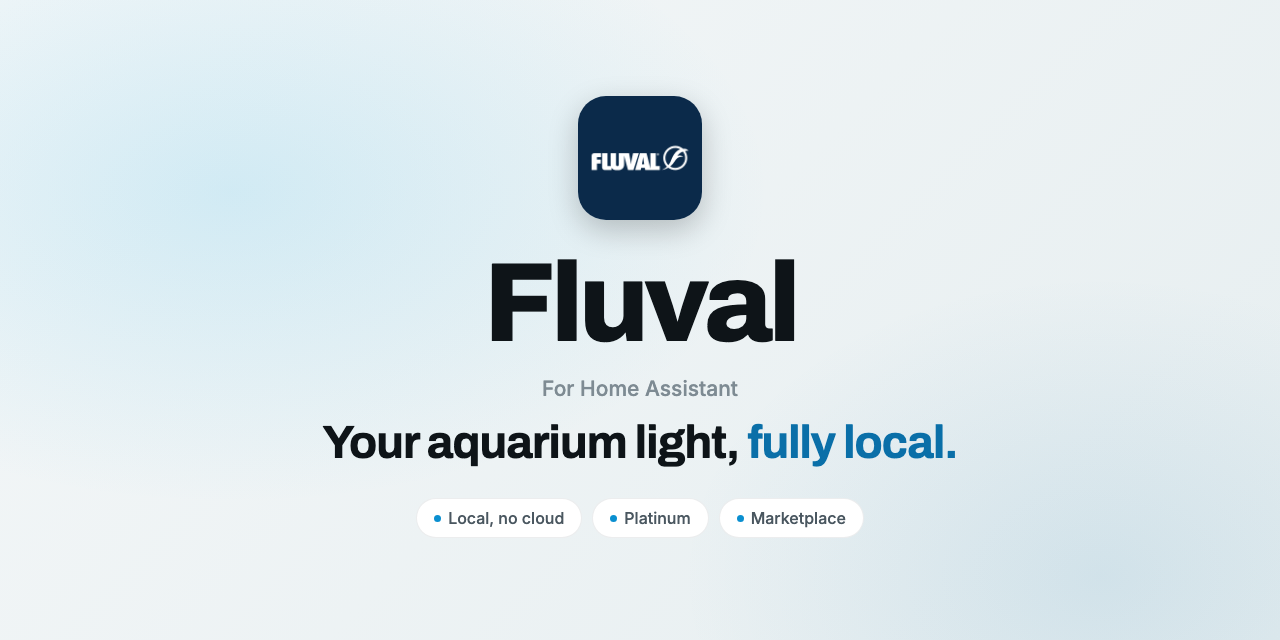
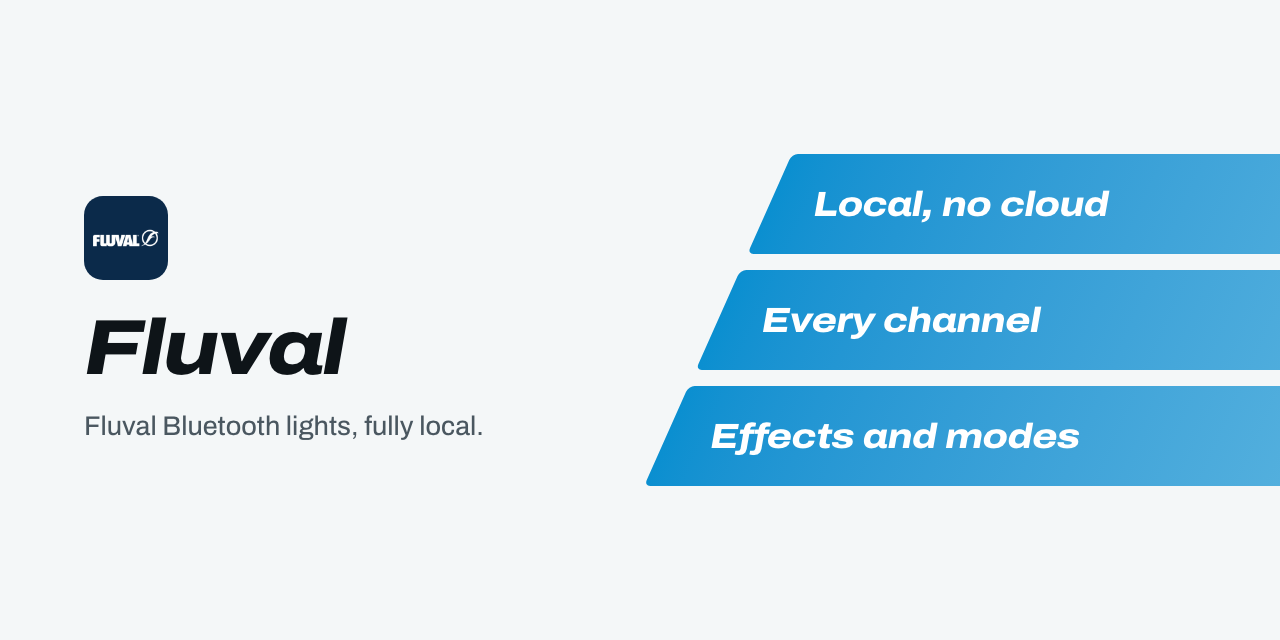
README and project page in the v2 design
Title banner with the lanes, Install and Set up as one Get started, shared
footer. The page loads theme v2 (Archivo from sh1ft-w.github.io), hero left
with the three key facts on the lanes.

Claude-Session: https://claude.ai/code/session_01TLmTtZLAvnS1BJ3w9tzxXq

diff --git a/docs/index.html b/docs/index.html
@@ -13,21 +13,18 @@
 <meta property="og:description" content="Local Bluetooth control for Fluval Reef and Plant 4.0 LED lights. Robust, honest states, no cloud.">
 <meta property="og:image" content="https://sh1ft-w.github.io/fluval/images/readme-title-social.png">
 <link rel="icon" href="logo.png">
-<link rel="preconnect" href="https://fonts.googleapis.com">
-<link rel="preconnect" href="https://fonts.gstatic.com" crossorigin>
-<link href="https://fonts.googleapis.com/css2?family=Archivo:wght@600;700;800;900&family=Inter:wght@400;500;600&family=JetBrains+Mono:wght@400;500&display=swap" rel="stylesheet">
-<!-- Shared SH1FT-W design (tokens, glass navigation, light/dark, DE/EN, reveal) -->
-<link rel="stylesheet" href="https://sh1ft-w.github.io/theme/v1/theme.css">
-<script src="https://sh1ft-w.github.io/theme/v1/theme.js"></script>
+<!-- Shared SH1FT-W design, version 2 (tokens, Archivo, navigation, light/dark, DE/EN, the lanes) -->
+<link rel="stylesheet" href="https://sh1ft-w.github.io/theme/v2/theme.css">
+<script src="https://sh1ft-w.github.io/theme/v2/theme.js"></script>
 <style>
 /* Fluval palette: Fluval blue as accent, light sky blue as second colour, clear water by day, deep reef by night */
 :root {
   --accent: #0A8FD0; --accent-ink: #0A6FA8; --on-accent: #ffffff;
-  --sea: #0A6FA8; --sea-tint: rgba(10,143,208,0.10); --sea-glow: rgba(10,111,168,0.30); --aqua: #2BB3E8;
+  --sea: #0A6FA8; --sea-tint: rgba(10,143,208,0.10); --aqua: #2BB3E8;
   --ch-1: #E25FA8; --ch-2: #22C3D6; --ch-3: #2F6FE0; --ch-4: #8A4FE0; --ch-5: #9AAAB4;
-  --font: "Inter", -apple-system, BlinkMacSystemFont, system-ui, sans-serif;
-  --display: "Archivo", "Inter", -apple-system, BlinkMacSystemFont, system-ui, sans-serif;
-  --mono: "JetBrains Mono", ui-monospace, "SF Mono", Menlo, monospace;
+  --font: "Archivo", -apple-system, BlinkMacSystemFont, system-ui, sans-serif;
+  --display: "Archivo", -apple-system, BlinkMacSystemFont, system-ui, sans-serif;
+  --mono: ui-monospace, "SF Mono", Menlo, monospace;
   --bg: #F4F7F8; --bg-2: #E6EEF0; --card: #FFFFFF; --card-2: #F1F5F6;
   --ink: #0E1418; --ink-2: #4A5760; --ink-3: rgba(12,25,34,0.52);
   --line: rgba(10,40,60,0.11); --chip: rgba(10,50,80,0.06);
@@ -38,7 +35,7 @@
 }
 @media (prefers-color-scheme: dark) { :root:not([data-theme="light"]) {
   --accent: #3FB3EC; --accent-ink: #6CC6F2; --on-accent: #041624;
-  --sea: #3FB3EC; --sea-tint: rgba(63,179,236,0.14); --sea-glow: rgba(63,179,236,0.28);
+  --sea: #3FB3EC; --sea-tint: rgba(63,179,236,0.14);
   --ch-5: #DCE6EC;
   --bg: #070C10; --bg-2: #0C151B; --card: #10191F; --card-2: #16232B;
   --ink: #ECF3F6; --ink-2: rgba(214,228,238,0.84); --ink-3: rgba(214,228,238,0.52);
@@ -48,7 +45,7 @@
 } }
 :root[data-theme="dark"] {
   --accent: #3FB3EC; --accent-ink: #6CC6F2; --on-accent: #041624;
-  --sea: #3FB3EC; --sea-tint: rgba(63,179,236,0.14); --sea-glow: rgba(63,179,236,0.28);
+  --sea: #3FB3EC; --sea-tint: rgba(63,179,236,0.14);
   --ch-5: #DCE6EC;
   --bg: #070C10; --bg-2: #0C151B; --card: #10191F; --card-2: #16232B;
   --ink: #ECF3F6; --ink-2: rgba(214,228,238,0.84); --ink-3: rgba(214,228,238,0.52);
@@ -74,7 +71,7 @@ code, .k { font-family: var(--mono); font-variant-numeric: tabular-nums; }
 .btn {
   display: inline-flex; align-items: center; justify-content: center; gap: 8px; height: 48px; padding: 0 24px; border-radius: 999px;
   font-family: inherit; font-size: 15px; font-weight: 600; line-height: 1; background: var(--sea); color: var(--on-accent); border: 0; cursor: pointer;
-  box-shadow: 0 12px 28px -12px var(--sea-glow); transition: transform .2s ease, filter .2s ease;
+  transition: transform .2s ease, filter .2s ease;
 }
 .btn:hover { text-decoration: none; filter: brightness(1.1); transform: translateY(-1px); }
 .btn.ghost { background: var(--card); color: var(--ink); box-shadow: var(--shadow); }
@@ -98,9 +95,6 @@ section.tint { background: var(--bg-2); }
 
 /* Hero */
 .hero { padding: clamp(56px, 9vw, 112px) 0 clamp(64px, 8vw, 104px); text-align: center; overflow: hidden; }
-.hero .glow { position: absolute; inset: -20% -10% auto; height: 90%; pointer-events: none;
-  background: radial-gradient(40% 36% at 30% 30%, rgba(43,179,232,0.20), transparent 70%), radial-gradient(36% 34% at 72% 24%, rgba(10,111,168,0.16), transparent 70%);
-  filter: blur(50px); }
 .hero .wrap { position: relative; }
 .hero .lead { max-width: 660px; margin-left: auto; margin-right: auto; }
 .cta { display: flex; flex-wrap: wrap; gap: 12px; justify-content: center; margin-top: 34px; }
@@ -108,9 +102,6 @@ section.tint { background: var(--bg-2); }
 .pill { display: inline-flex; align-items: center; gap: 6px; padding: 5px 12px; border-radius: 999px; background: var(--card); box-shadow: var(--shadow); font-weight: 600; color: var(--ink-2); font-size: 13px; }
 .pill i { width: 7px; height: 7px; border-radius: 50%; background: var(--aqua); display: inline-block; }
 
-/* Bühne: das README-Titelbild */
-.stage { position: relative; margin: clamp(48px, 7vw, 84px) auto 0; max-width: 1100px; }
-.stage .photo { display: block; width: 100%; height: auto; aspect-ratio: 2 / 1; border-radius: var(--radius-lg); box-shadow: var(--shadow-lg); }
 
 /* Bento: Gerade neu */
 .bento { display: grid; grid-template-columns: repeat(12, 1fr); gap: 16px; }
@@ -239,6 +230,36 @@ footer .fine { flex-basis: 100%; line-height: 1.6; }
   .tbl td { border: 0; padding: 2px 0; }
   .tbl td:first-child { white-space: normal; }
 }
+
+/* ---- theme v2 ---- */
+:root { --display: var(--font); --lane-a: #0A6FA8; --lane-b: #2BB3E8; --radius: 20px; --radius-lg: 28px; --max: 1200px; }
+body { font-family: var(--font); }
+h1 { font-size: clamp(44px, 6vw, 84px); line-height: 1; font-weight: 800; font-stretch: 118%; font-style: italic; letter-spacing: -0.025em; }
+h2 { font-size: clamp(30px, 3.8vw, 48px); line-height: 1.08; font-weight: 750; font-stretch: 112%; letter-spacing: -0.02em; }
+h3 { font-stretch: 106%; }
+h1 em, h2 em { color: inherit !important; font-style: inherit; }
+.center { text-align: left; } .center .lead { margin-left: 0; margin-right: 0; }
+.head { max-width: 50em; }
+.flow { margin: 0; }
+.finale h2 { font-size: clamp(34px, 4.6vw, 60px); }
+.eyebrow { text-transform: none; letter-spacing: 0; font-size: 16px; font-weight: 650; margin-bottom: 12px; }
+.eyebrow::before { display: none; }
+.cap { text-align: left; }
+.btn { border-radius: 12px; box-shadow: none; }
+.btn.ghost { background: var(--chip); box-shadow: none; }
+.pill { box-shadow: none; background: var(--chip); border-radius: 8px; }
+.b, .tile, .panel, .prof, .tbl, .faq details, .flow .lane { box-shadow: none; border: 1px solid var(--line); }
+.b .tag, .tg, .tbl thead th { text-transform: none; letter-spacing: 0; font-size: 13px; }
+.b .tag, .tg, .days > span { border-radius: 6px; }
+.tile .ico { border-radius: 10px; }
+.hero { text-align: left; padding: clamp(48px, 7vw, 96px) 0 clamp(56px, 7vw, 96px); overflow: hidden; }
+.hero .wrap { display: grid; grid-template-columns: minmax(0, 1.15fr) minmax(0, 1fr); gap: clamp(24px, 4vw, 64px); align-items: center; }
+.hero .mark { width: 64px; height: 64px; border-radius: 15px; margin-bottom: 26px; }
+.hero .lead { margin-left: 0; max-width: 34em; }
+.hero .cta, .hero .meta { justify-content: flex-start; }
+.hero .s-lanes { margin: 0 calc(-1 * var(--gutter) - 14vw) 0 clamp(32px, 4vw, 56px); }
+.s-track b { color: #fff; font: italic 800 clamp(20px, 2.5vw, 34px)/1 var(--font); font-stretch: 116%; letter-spacing: -0.015em; white-space: nowrap; }
+@media (max-width: 900px) { .hero .wrap { grid-template-columns: 1fr; } .hero .s-lanes { margin: 8px calc(-1 * var(--gutter) - 8vw) 0 44px; } }
 </style>
 </head>
 <body>
@@ -264,25 +285,24 @@ footer .fine { flex-basis: 100%; line-height: 1.6; }
 </div>
 
 <section class="hero" id="top">
-  <div class="glow" aria-hidden="true"></div>
   <div class="wrap">
-    <p class="eyebrow reveal"><span class="en">Fluval aquarium light in Home Assistant</span><span class="de">Fluval-Aquarienlicht in Home Assistant</span></p>
-    <h1 class="reveal d1"><span class="en">Your aquarium light,<br><em>fully local.</em></span><span class="de">Dein Aquarienlicht,<br><em>ganz lokal.</em></span></h1>
-    <p class="lead reveal d2"><span class="en">Fluval talks to Fluval Reef and Plant 4.0 LEDs over local Bluetooth: <strong>every channel as a slider, real transitions, the lamp's programs and effects</strong>, and it keeps the colour Home Assistant set. Robust, honest states, no cloud.</span><span class="de">Fluval spricht über lokales Bluetooth mit Fluval Reef- und Plant-4.0-LEDs: <strong>jeder Kanal als Schieberegler, echte Übergänge, Programme und Effekte der Lampe</strong>, und sie hält die Farbe, die Home Assistant eingestellt hat. Robust, ehrliche Zustände, ohne Cloud.</span></p>
-    <div class="cta reveal d3">
-      <a class="btn" href="#install"><span class="en">Install from the Marketplace</span><span class="de">Über den Marketplace installieren</span></a>
-      <a class="btn ghost" href="https://github.com/SH1FT-W/fluval#readme"><span class="en">Read the README</span><span class="de">Zur Anleitung</span></a>
+    <div>
+      <img class="mark" src="logo.png" alt="" width="64" height="64">
+      <h1><span class="en">Your aquarium light, fully local.</span><span class="de">Dein Aquarienlicht, ganz lokal.</span></h1>
+      <p class="lead reveal d2"><span class="en">Fluval talks to Fluval Reef and Plant 4.0 LEDs over local Bluetooth: <strong>every channel as a slider, real transitions, the lamp's programs and effects</strong>, and it keeps the colour Home Assistant set. Robust, honest states, no cloud.</span><span class="de">Fluval spricht über lokales Bluetooth mit Fluval Reef- und Plant-4.0-LEDs: <strong>jeder Kanal als Schieberegler, echte Übergänge, Programme und Effekte der Lampe</strong>, und sie hält die Farbe, die Home Assistant eingestellt hat. Robust, ehrliche Zustände, ohne Cloud.</span></p>
+      <div class="cta reveal d3">
+        <a class="btn" href="#install"><span class="en">Install from the Marketplace</span><span class="de">Über den Marketplace installieren</span></a>
+        <a class="btn ghost" href="https://github.com/SH1FT-W/fluval#readme"><span class="en">Read the README</span><span class="de">Zur Anleitung</span></a>
+      </div>
+      <p class="meta reveal d3">
+        <span class="pill"><i></i><span id="hl-version">Version 26.11.2</span></span>
+        <span class="en">Home Assistant 2026.9 or newer &middot; English and German &middot; Apache 2.0</span><span class="de">Home Assistant 2026.9 oder neuer &middot; Deutsch und Englisch &middot; Apache 2.0</span>
+      </p>
     </div>
-    <p class="meta reveal d3">
-      <span class="pill"><i></i><span id="hl-version">Version 26.11.2</span></span>
-      <span class="en">Home Assistant 2026.9 or newer &middot; English and German &middot; Apache 2.0</span><span class="de">Home Assistant 2026.9 oder neuer &middot; Deutsch und Englisch &middot; Apache 2.0</span>
-    </p>
-
-    <div class="stage reveal d3">
-      <picture>
-        <source media="(prefers-color-scheme: dark)" srcset="images/readme-title-dark.webp">
-        <img class="photo" src="images/readme-title-light.webp" width="2560" height="1280" alt="Fluval: Your aquarium light, fully local.">
-      </picture>
+    <div class="s-lanes" aria-hidden="true">
+      <div class="s-lane"><div class="s-track"><b><span class="en">Local, no cloud</span><span class="de">Lokal, ohne Cloud</span></b></div></div>
+      <div class="s-lane"><div class="s-track"><b><span class="en">Every channel</span><span class="de">Jeder Kanal</span></b></div></div>
+      <div class="s-lane"><div class="s-track"><b><span class="en">Effects and modes</span><span class="de">Effekte und Modi</span></b></div></div>
     </div>
   </div>
 </section>

diff --git a/README.md b/README.md
@@ -2,14 +2,14 @@
 
 <picture>
   <source media="(prefers-color-scheme: dark)" srcset="docs/images/readme-title-dark.webp" />
-  <img src="docs/images/readme-title-light.webp" alt="Fluval: Your aquarium light, fully local." />
+  <img src="docs/images/readme-title-light.webp" alt="Fluval: Fluval Bluetooth lights, fully local. Local, no cloud. Every channel. Effects and modes." />
 </picture>
 
 [![Version](https://img.shields.io/badge/dynamic/json?url=https%3A%2F%2Fraw.githubusercontent.com%2FSH1FT-W%2Ffluval%2Fmain%2Fcustom_components%2Ffluvalble%2Fmanifest.json&query=%24.version&label=version&style=flat-square&color=0A6FA8&labelColor=111111)](https://github.com/SH1FT-W/fluval/releases/latest)
 [![Home Assistant](https://img.shields.io/badge/Home%20Assistant-2026.9%2B-0A6FA8?style=flat-square&labelColor=111111&logo=homeassistant&logoColor=white)](https://www.home-assistant.io)
 [![Marketplace](https://img.shields.io/badge/Marketplace-default-0A6FA8?style=flat-square&labelColor=111111)](https://hacs.xyz)
 
-<a href="https://sh1ft-w.github.io/fluval"><b>Website</b></a>&emsp;<a href="#supported-lights">Lights</a>&emsp;<a href="#install">Install</a>&emsp;<a href="#set-up">Set up</a>&emsp;<a href="#entities">Entities</a>&emsp;<a href="CHANGELOG.md">Changelog</a>
+<a href="https://sh1ft-w.github.io/fluval"><b>Website</b></a>&emsp;<a href="#get-started">Get started</a>&emsp;<a href="#supported-lights">Lights</a>&emsp;<a href="#entities">Entities</a>&emsp;<a href="CHANGELOG.md">Changelog</a>
 
 </div>
 
@@ -38,12 +38,19 @@ The untested lights speak the same protocol as the Reef Nano 4.0, are built from
 
 **New in 26.11:** save the lamp's professional program as named profiles and switch between them, and weather effects end properly after a restart. Every change is in the [changelog](CHANGELOG.md).
 
-<a id="install"></a>
-## Install
+<a id="get-started"></a><a id="install"></a><a id="set-up"></a>
+## Get started
 
 [![Open in the Marketplace](https://my.home-assistant.io/badges/hacs_repository.svg)](https://my.home-assistant.io/redirect/hacs_repository/?owner=SH1FT-W&repository=fluval&category=integration)
 
-Search for **Fluval** under **Settings > Marketplace** (called HACS before Home Assistant 2026.11), download it and restart Home Assistant.
+Before you start, you need Bluetooth in range of the light: a local adapter or ESPHome Bluetooth proxies with active connections. Close the FluvalConnect app, it would hold the only connection.
+
+1. **Install it.** Search for **Fluval** under **Settings > Marketplace** (called HACS before Home Assistant 2026.11), download it and restart Home Assistant.
+2. **Add the light.** It usually shows up under **Settings > Devices & services > Discovered**. If not, choose **Add integration > Fluval Aquarium LED** and pick the light.
+3. **Choose how to connect** under **three dots > Configure**. **Keep connected** (on by default) stays connected, is fast and holds the state; off, Home Assistant connects only briefly (every 5 minutes and for commands), so the app gets a turn. A **preferred proxy** is tried first; if it fails, another one is used and the preferred one again after 30 minutes.
+4. **Weather, if you like.** In the same options, pick a weather entity for effects from weather.
+
+The entry reloads when the options are saved. Once profiles exist, the options first ask whether to change settings or rename or delete a profile.
 
 <details>
 <summary>Install by hand</summary>
@@ -52,17 +59,6 @@ Search for **Fluval** under **Settings > Marketplace** (called HACS before Home 
 2. Copy `custom_components/fluvalble` into `/config/custom_components/` and restart Home Assistant.
 
 </details>
-
-<a id="set-up"></a>
-## Set up
-
-Before you start, you need Bluetooth in range of the light: a local adapter or ESPHome Bluetooth proxies with active connections. Close the FluvalConnect app, it would hold the only connection.
-
-1. **Add the light.** It usually shows up under **Settings > Devices & services > Discovered**. If not, choose **Add integration > Fluval Aquarium LED** and pick the light.
-2. **Choose how to connect** under **three dots > Configure**. **Keep connected** (on by default) stays connected, is fast and holds the state; off, Home Assistant connects only briefly (every 5 minutes and for commands), so the app gets a turn. A **preferred proxy** is tried first; if it fails, another one is used and the preferred one again after 30 minutes.
-3. **Weather, if you like.** In the same options, pick a weather entity for effects from weather.
-
-The entry reloads when the options are saved. Once profiles exist, the options first ask whether to change settings or rename or delete a profile.
 
 <a id="switching"></a>
 ### Switching from MrMooreUK/fluvalble
@@ -267,3 +263,11 @@ Test requirements: `pip install -r requirements_test.txt`. The simulated lamp ac
 [Apache License 2.0](LICENSE), Copyright 2026 SH1FT-W. The predecessor and third-party material in [`NOTICE`](NOTICE).
 
 <sub>Fluval (this integration) is an independent project, not affiliated with, endorsed or sponsored by Rolf C. Hagen Inc. Fluval is a trademark of Rolf C. Hagen Inc.</sub>
+
+<br/>
+
+<div align="center">
+<a href="https://sh1ft-w.github.io"><img src="https://sh1ft-w.github.io/readme/footer.png" width="640" alt="All SH1FT-W projects"></a>
+<br/>
+<sub>More open source for Home Assistant and the Mac at <a href="https://sh1ft-w.github.io">sh1ft-w.github.io</a></sub>
+</div>
